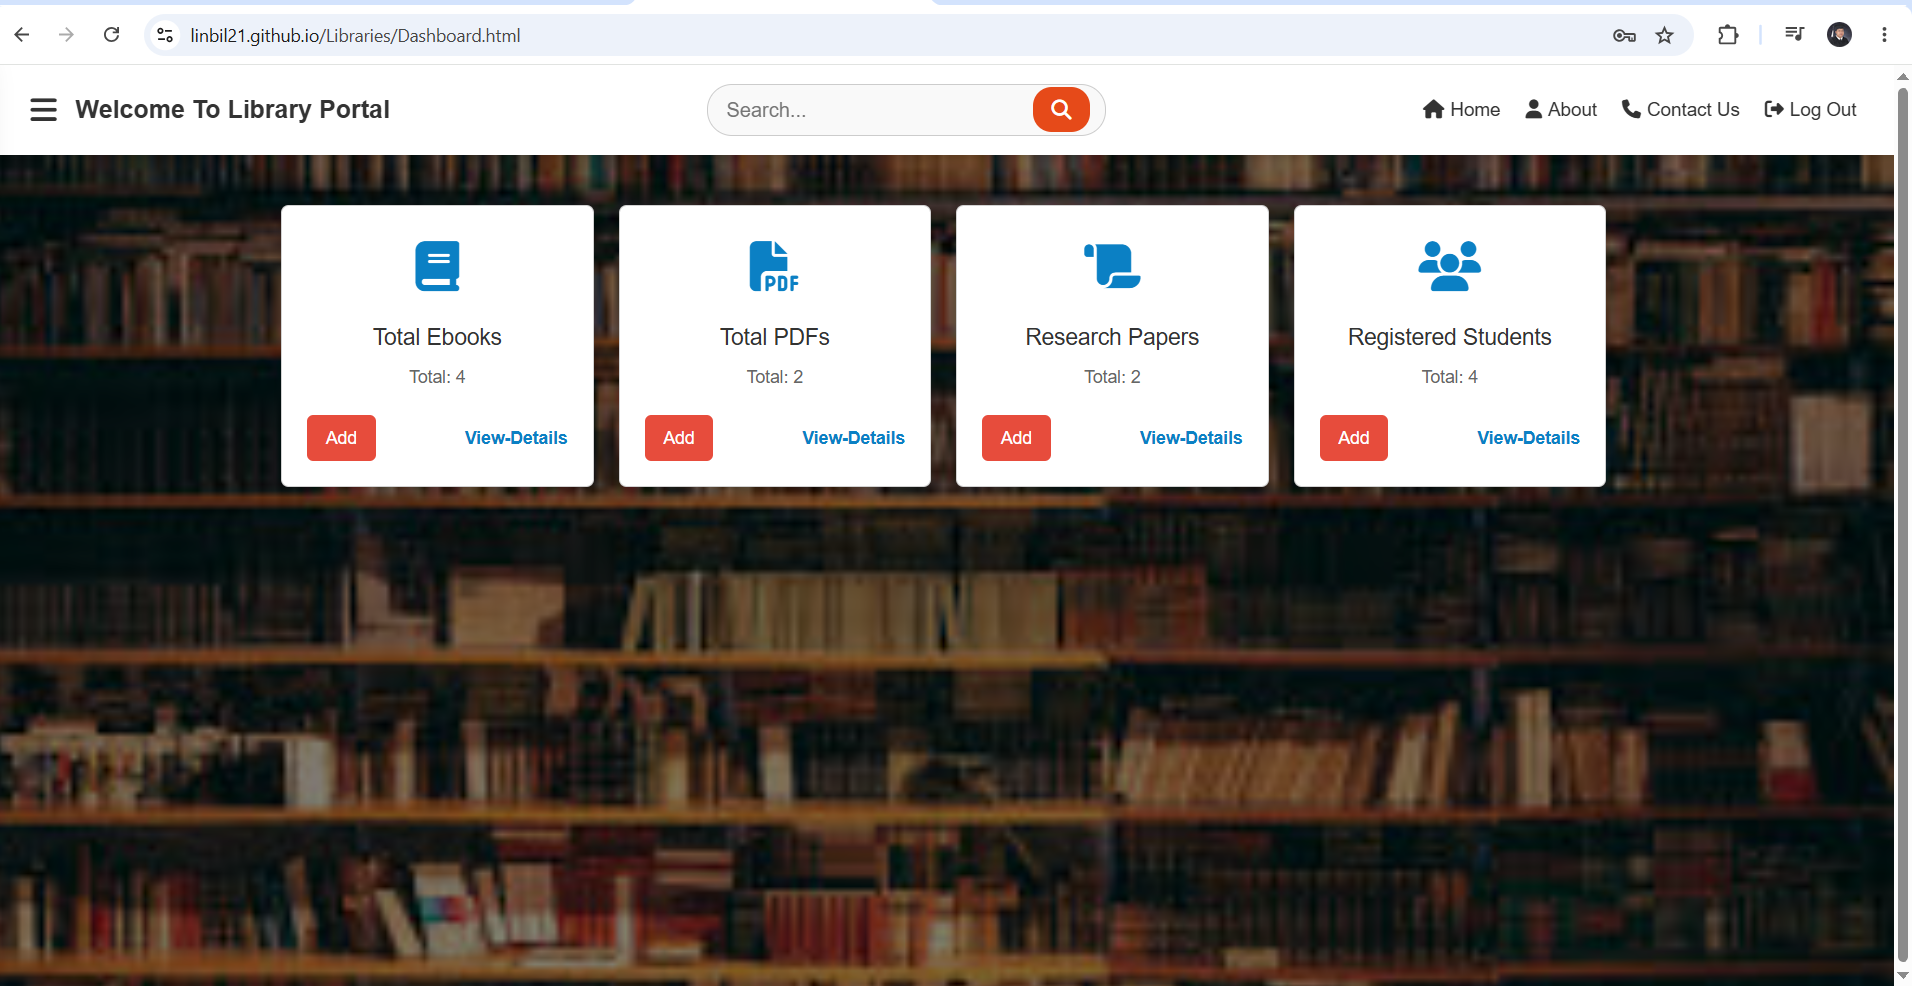
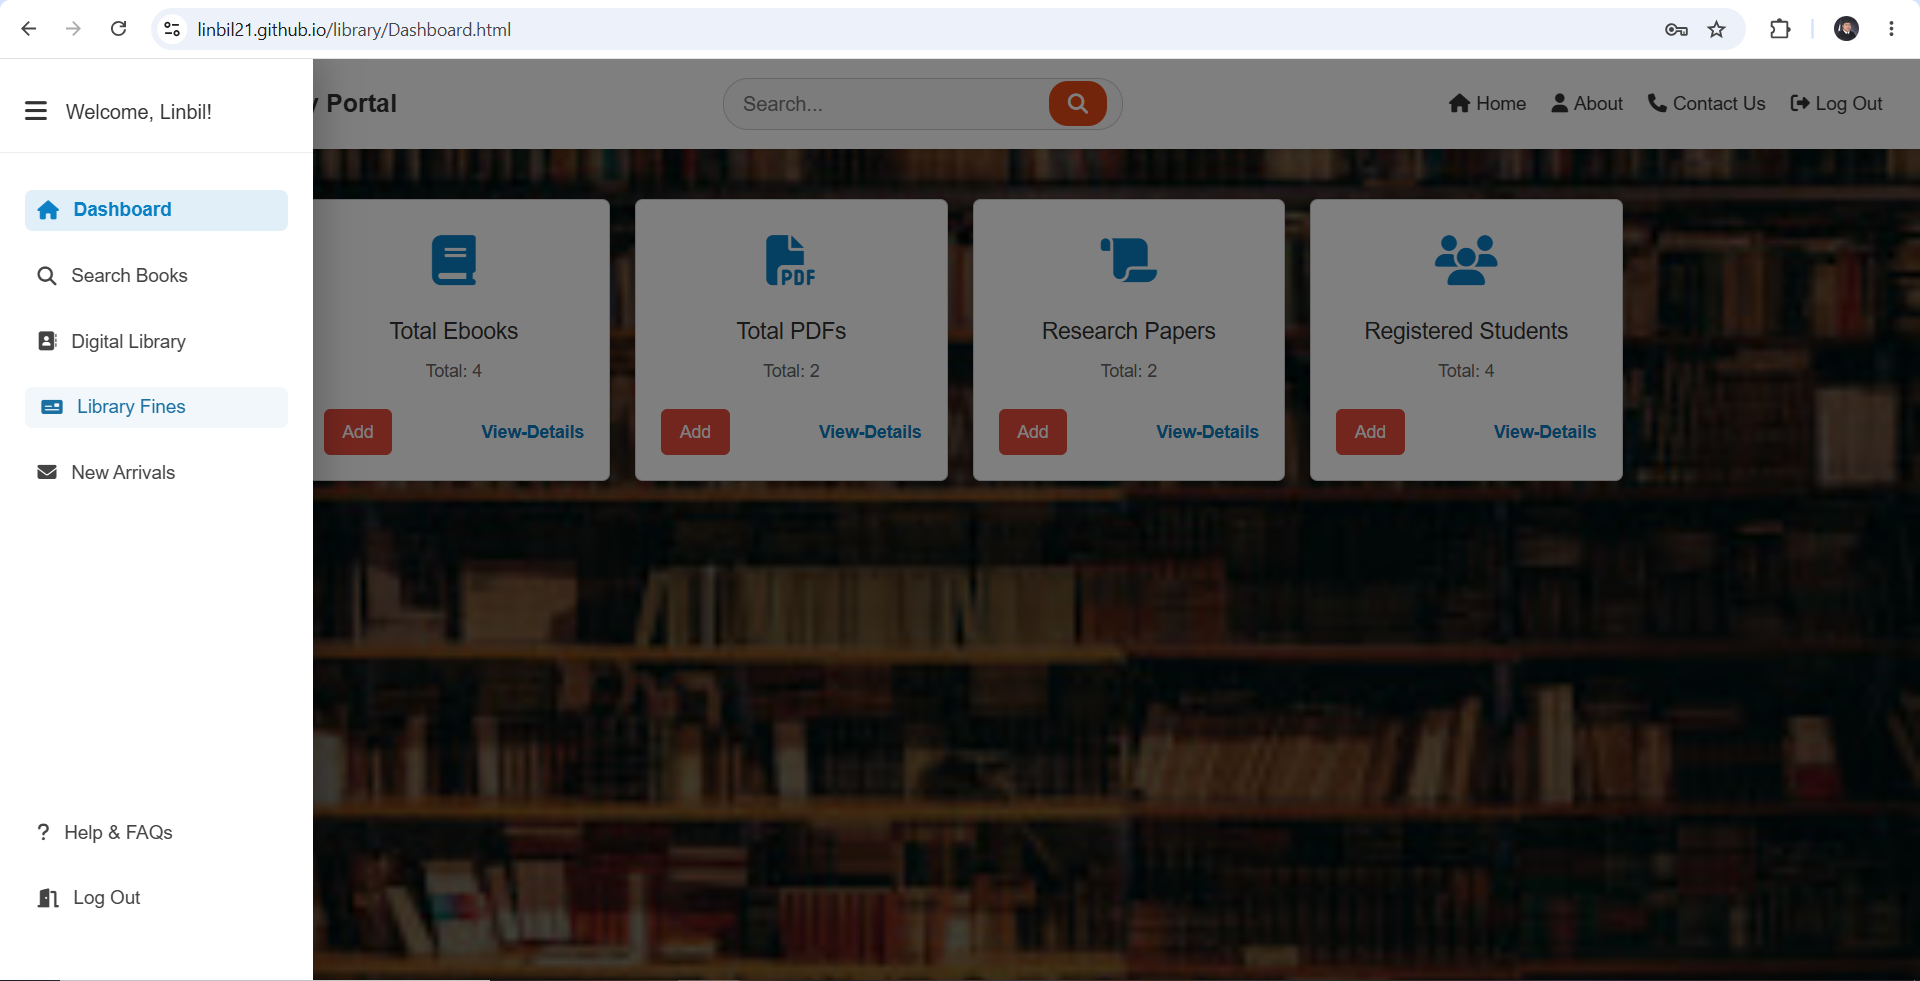
update

diff --git a/GUIDE/index6.html b/GUIDE/index6.html
@@ -47,19 +47,49 @@
                 </div>
                 <div class="guide-features-grid">
                     <div class="guide-feature">
-                        <div class="feature-icon" style="background: rgba(255, 159, 67, 0.15); color: #ff9f43;">🧑🏫</div>
-                        <h4>Student Counseling</h4>
-                        <p>Manage student records and counseling sessions</p>
-                    </div>
-                    <div class="guide-feature">
-                        <div class="feature-icon" style="background: rgba(46, 213, 115, 0.15); color: #2ed573;">♿</div>
-                        <h4>Accessibility</h4>
-                        <p>Implemented responsive UI for everyone</p>
-                    </div>
-                    <div class="guide-feature">
                         <div class="feature-icon" style="background: rgba(116, 185, 255, 0.15); color: #74b9ff;">📊</div>
-                        <h4>Record Keeping</h4>
-                        <p>Maintain digital logs of guidance activities</p>
+                        <h4>Dashboard</h4>
+                        <p>Overview of system activities</p>
+                    </div>
+                    <div class="guide-feature">
+                        <div class="feature-icon" style="background: rgba(255, 159, 67, 0.15); color: #ff9f43;">📝</div>
+                        <h4>Posting</h4>
+                        <p>Manage announcements and updates</p>
+                    </div>
+                    <div class="guide-feature">
+                        <div class="feature-icon" style="background: rgba(46, 213, 115, 0.15); color: #2ed573;">🤝</div>
+                        <h4>Counseling Services</h4>
+                        <p>Track and manage counseling sessions</p>
+                    </div>
+                    <div class="guide-feature">
+                        <div class="feature-icon" style="background: rgba(162, 155, 254, 0.15); color: #a29bfe;">📄</div>
+                        <h4>Document (Good Moral)</h4>
+                        <p>Process Good Moral certificates</p>
+                    </div>
+                    <div class="guide-feature">
+                        <div class="feature-icon" style="background: rgba(255, 107, 107, 0.15); color: #ff6b6b;">👤</div>
+                        <h4>Profiling</h4>
+                        <p>Manage student profiles and data</p>
+                    </div>
+                    <div class="guide-feature">
+                        <div class="feature-icon" style="background: rgba(0, 206, 201, 0.15); color: #00cec9;">🔬</div>
+                        <h4>Research Evaluation</h4>
+                        <p>Conduct and evaluate research</p>
+                    </div>
+                    <div class="guide-feature">
+                        <div class="feature-icon" style="background: rgba(253, 203, 110, 0.15); color: #fdcb6e;">📋</div>
+                        <h4>Test</h4>
+                        <p>Administer guidance testing</p>
+                    </div>
+                    <div class="guide-feature">
+                        <div class="feature-icon" style="background: rgba(9, 132, 227, 0.15); color: #0984e3;">📅</div>
+                        <h4>Student Appoinment</h4>
+                        <p>Schedule student meetings</p>
+                    </div>
+                    <div class="guide-feature">
+                        <div class="feature-icon" style="background: rgba(108, 92, 231, 0.15); color: #6c5ce7;">📈</div>
+                        <h4>Student Report</h4>
+                        <p>Generate analytical student reports</p>
                     </div>
                 </div>
             </div>